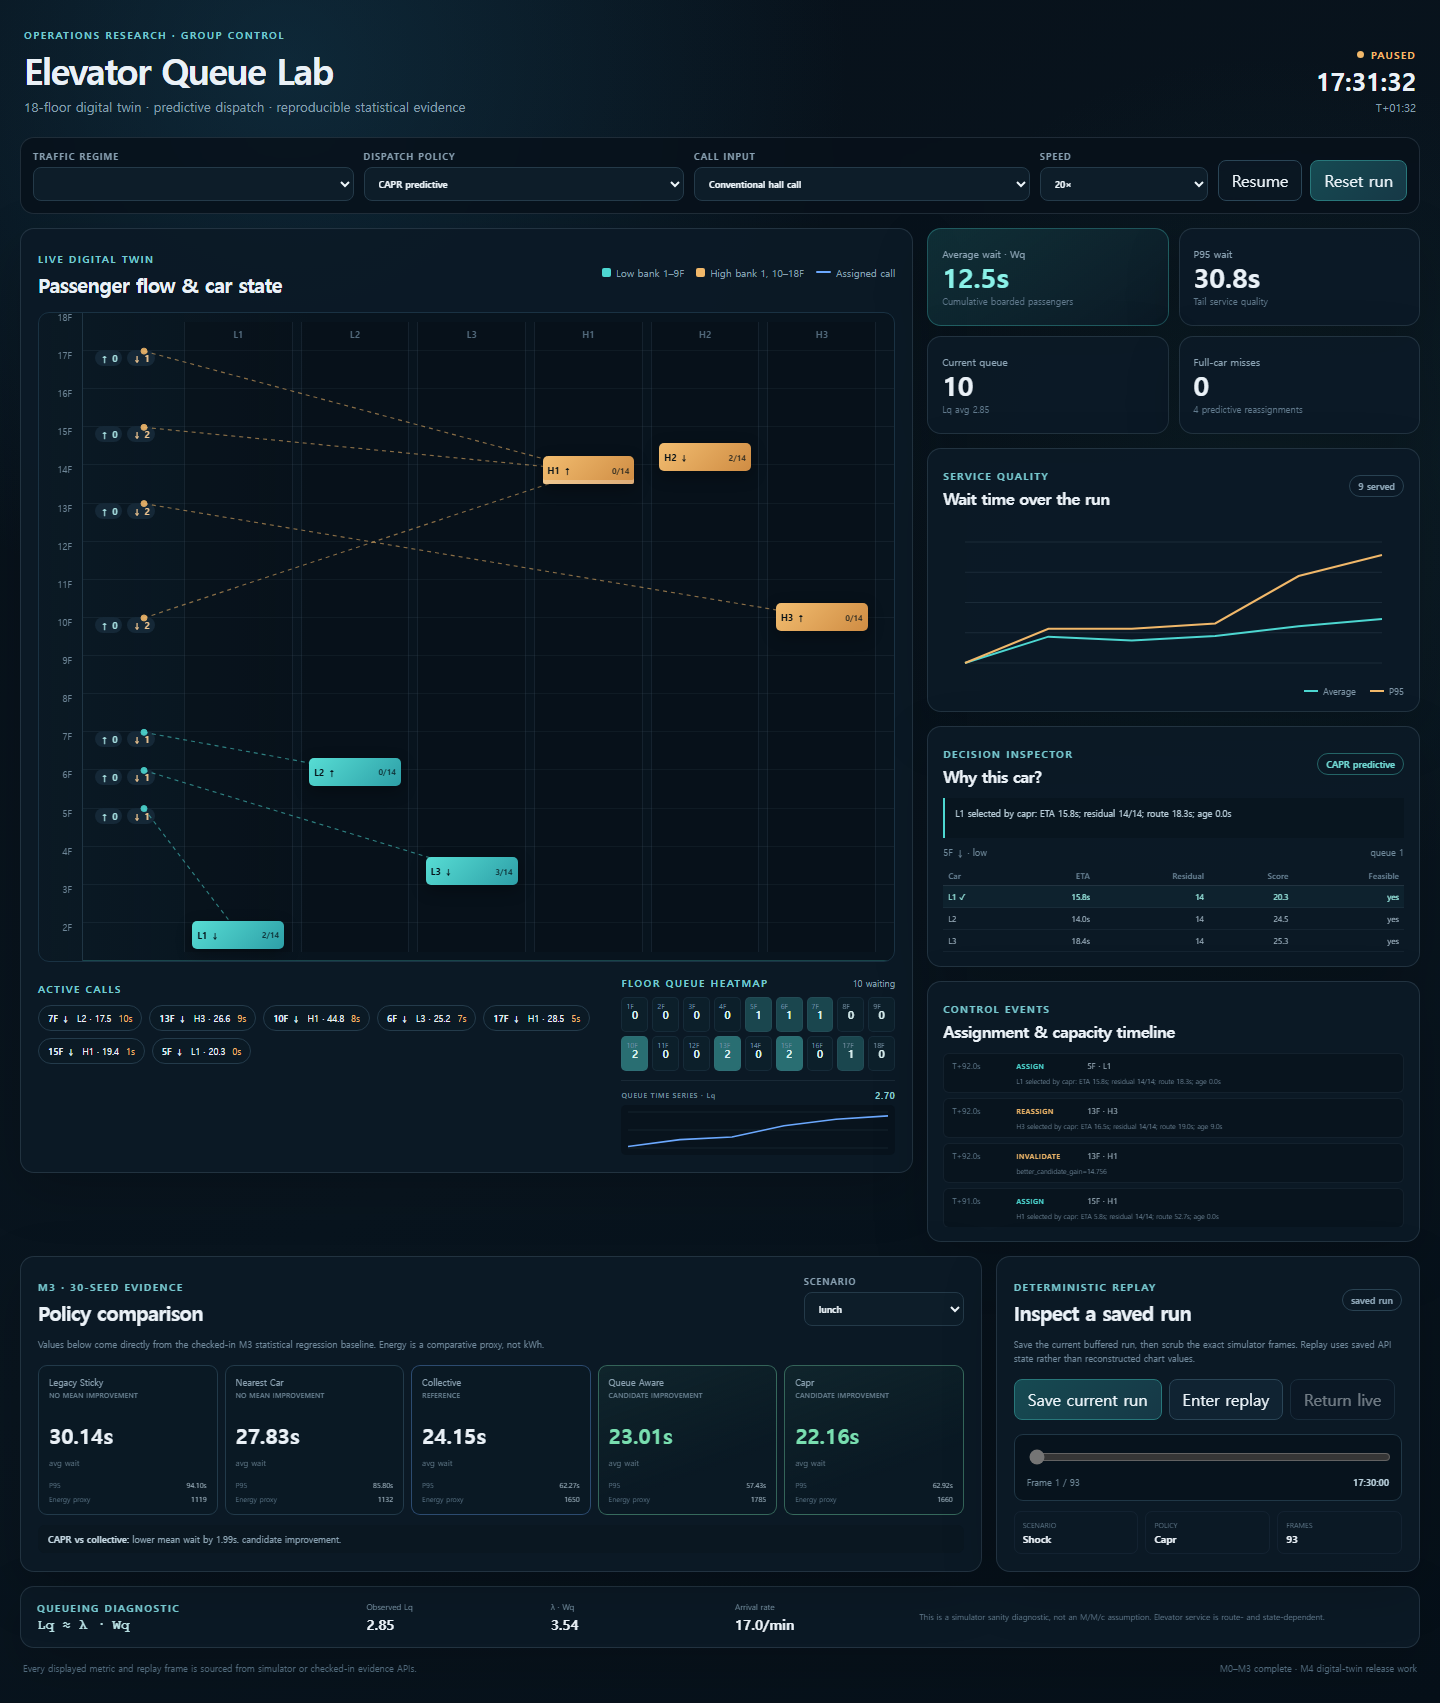
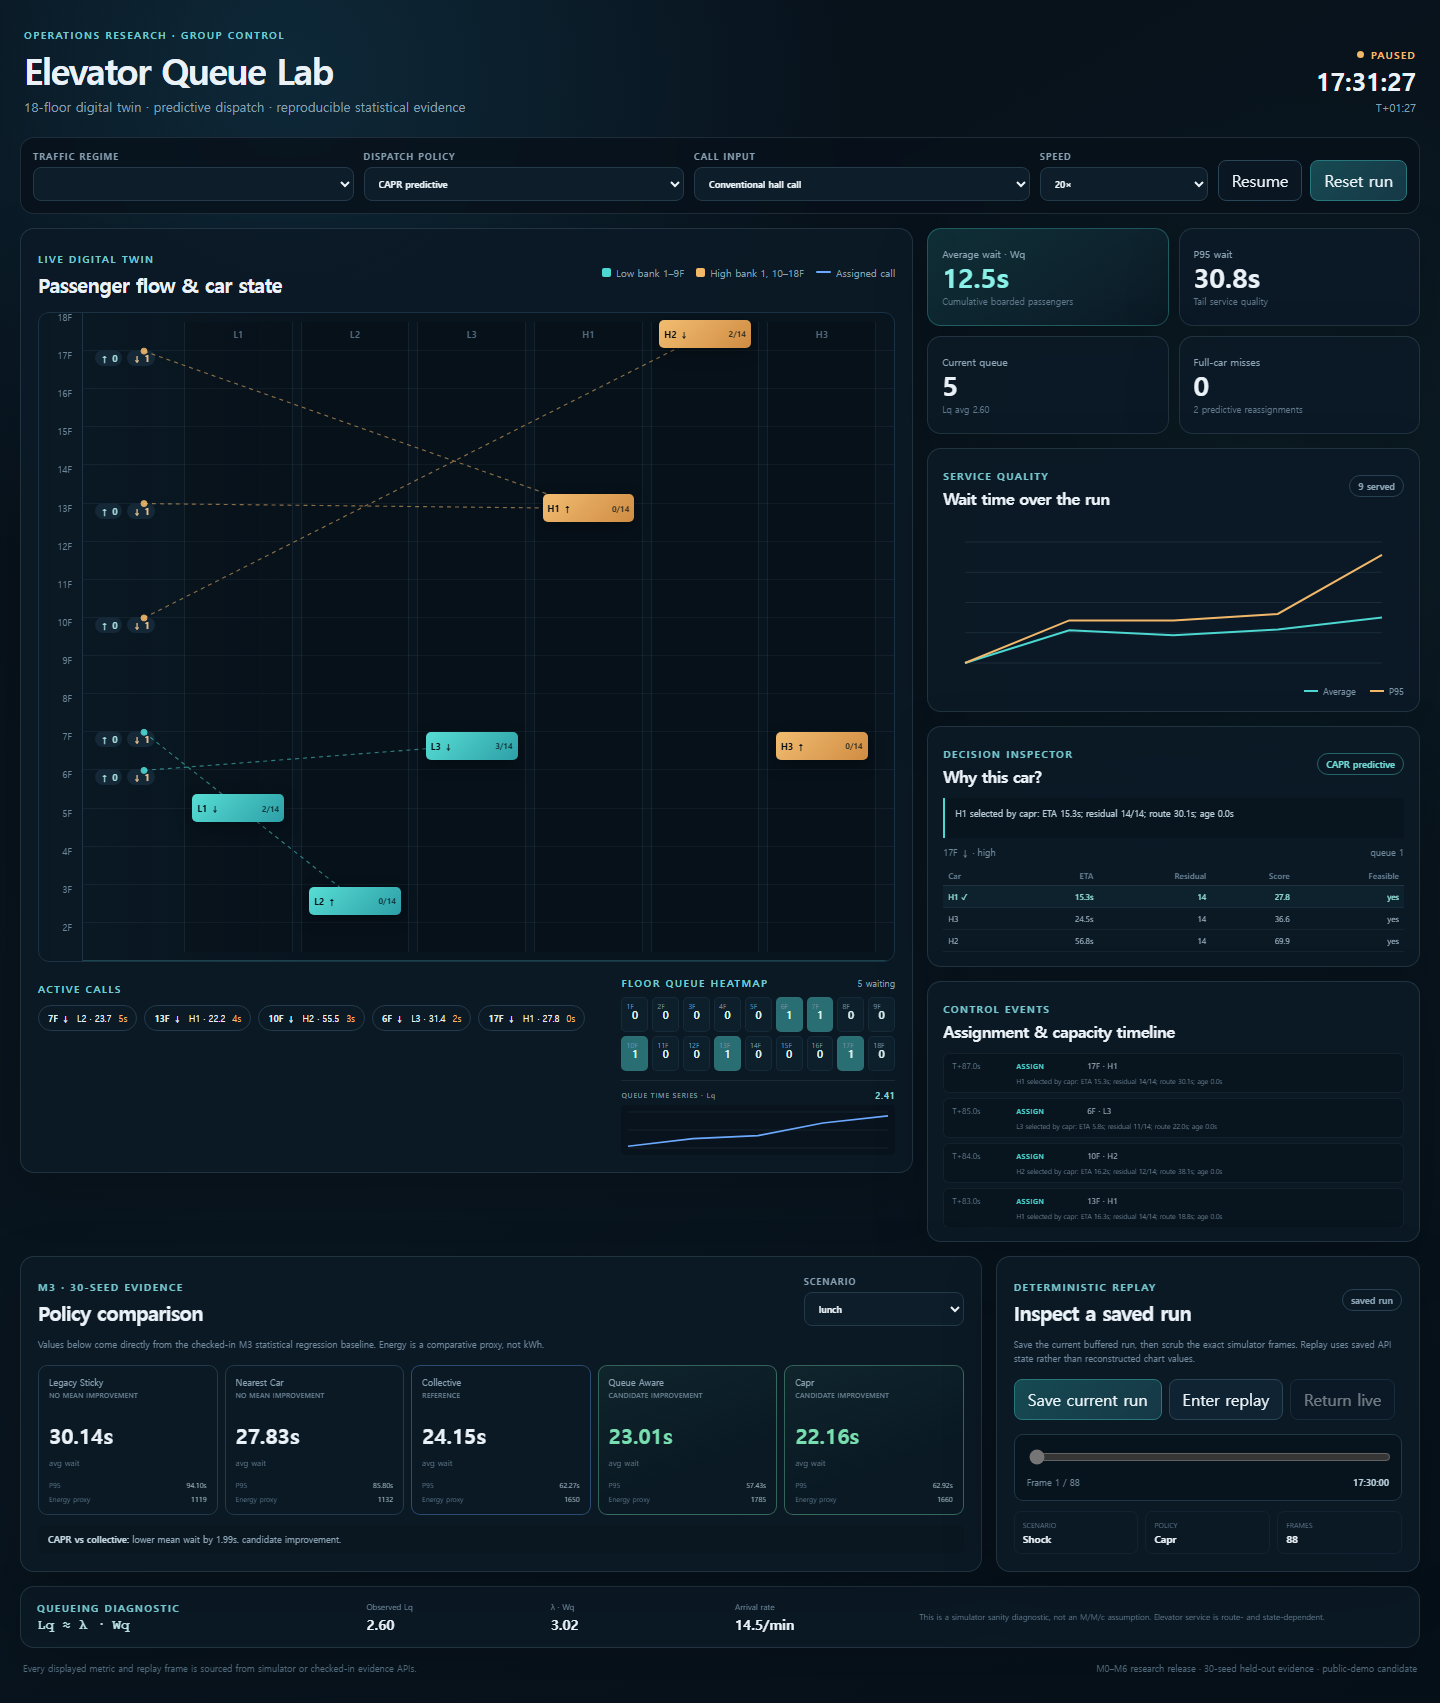
docs(m6): refresh release UI evidence

diff --git a/web/index.html b/web/index.html
@@ -218,7 +218,7 @@
 
       <footer>
         <span>Every displayed metric and replay frame is sourced from simulator or checked-in evidence APIs.</span>
-        <span>M0–M3 complete · M4 digital-twin release work</span>
+        <span>M0–M6 research release · 30-seed held-out evidence · public-demo candidate</span>
       </footer>
     </div>
     <script type="module" src="/app.js"></script>
